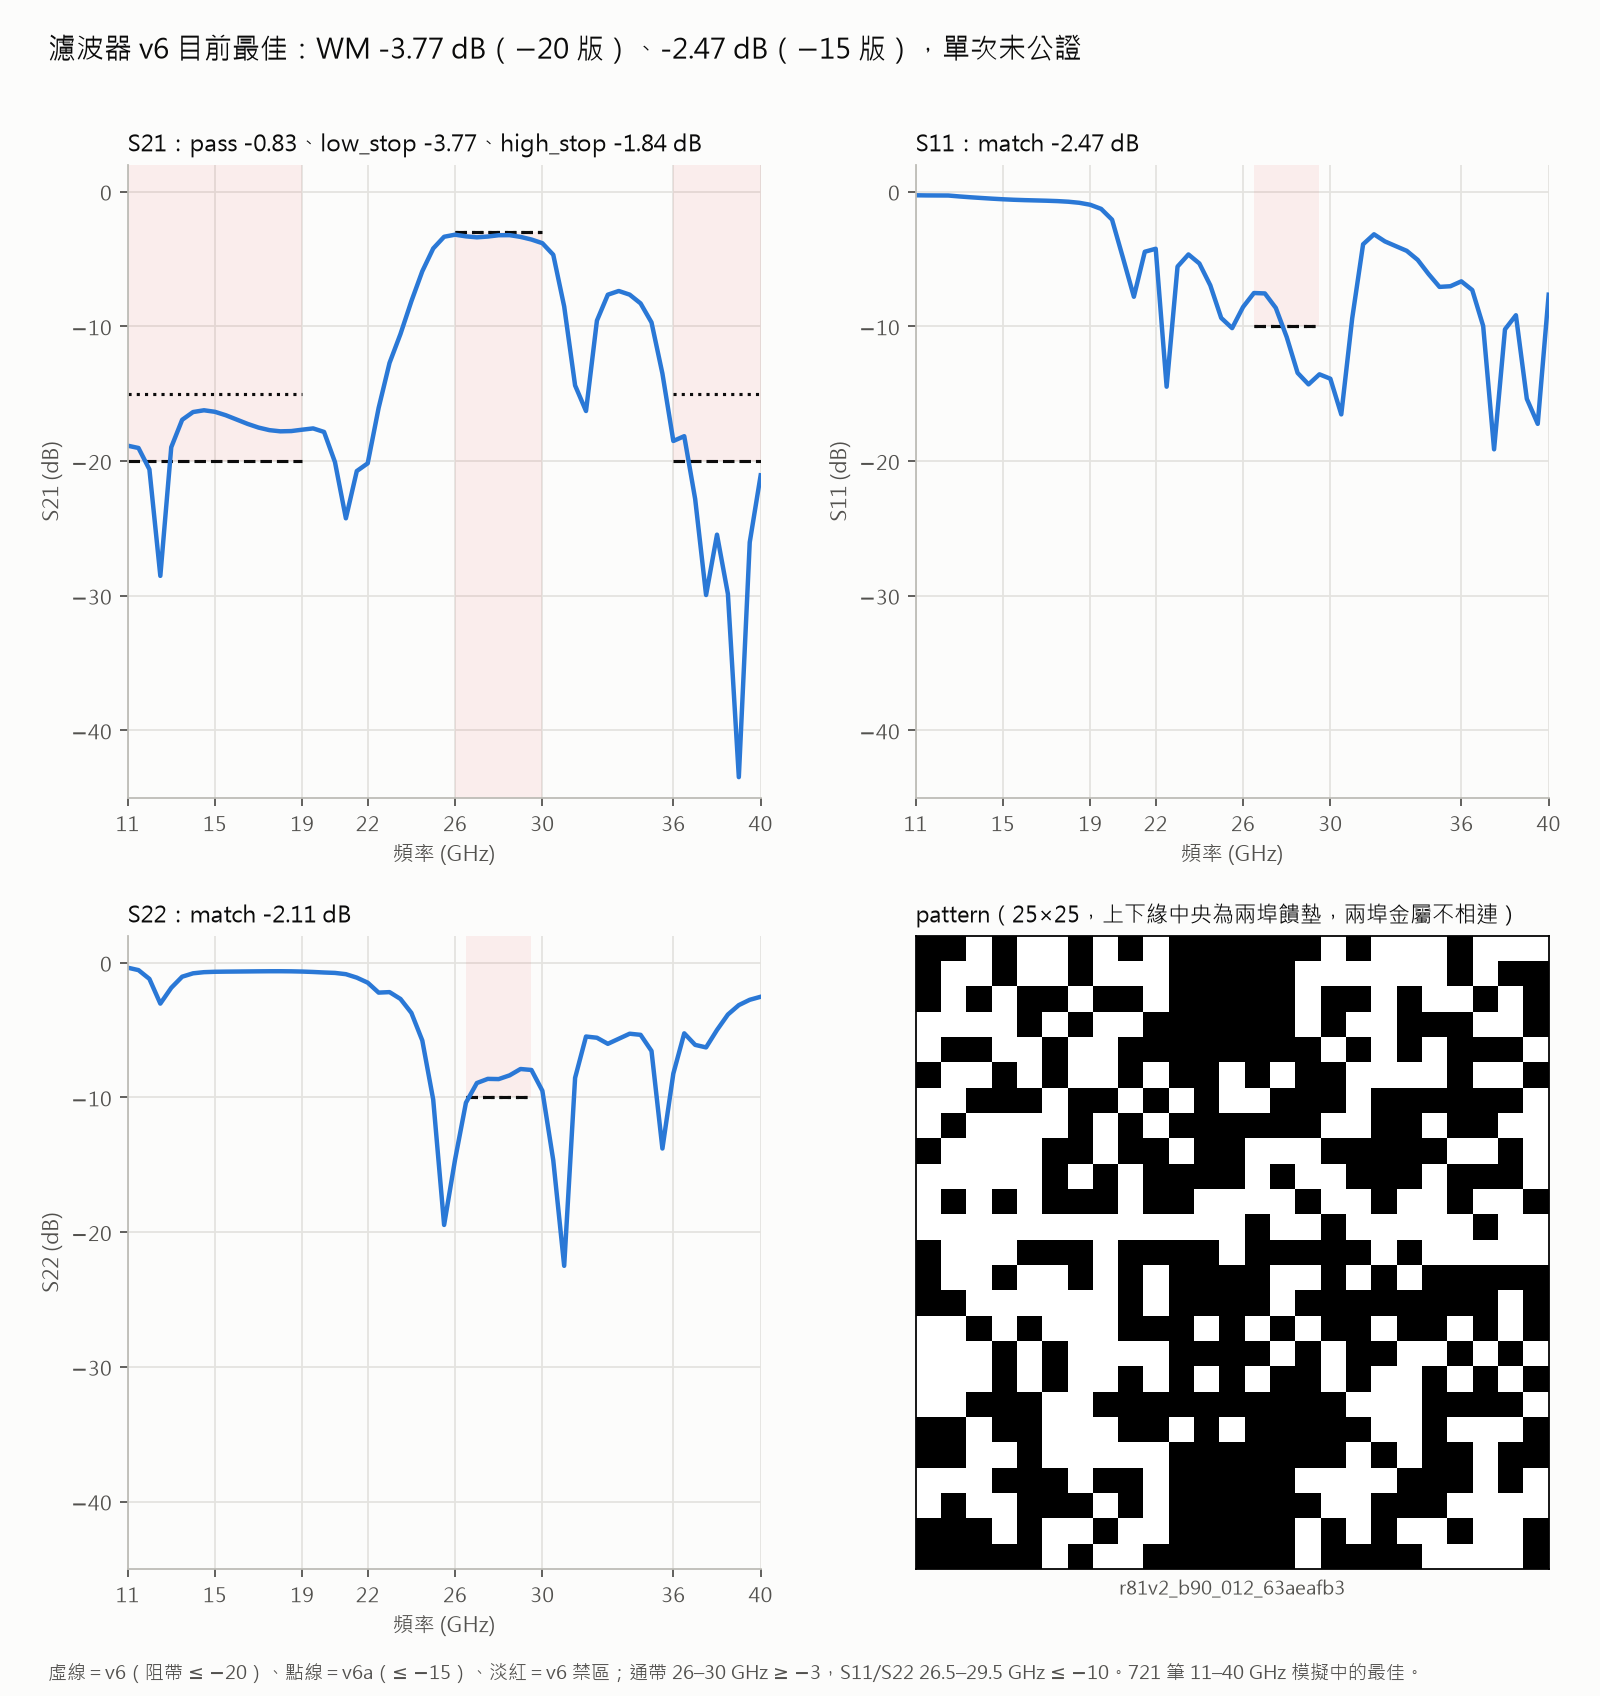
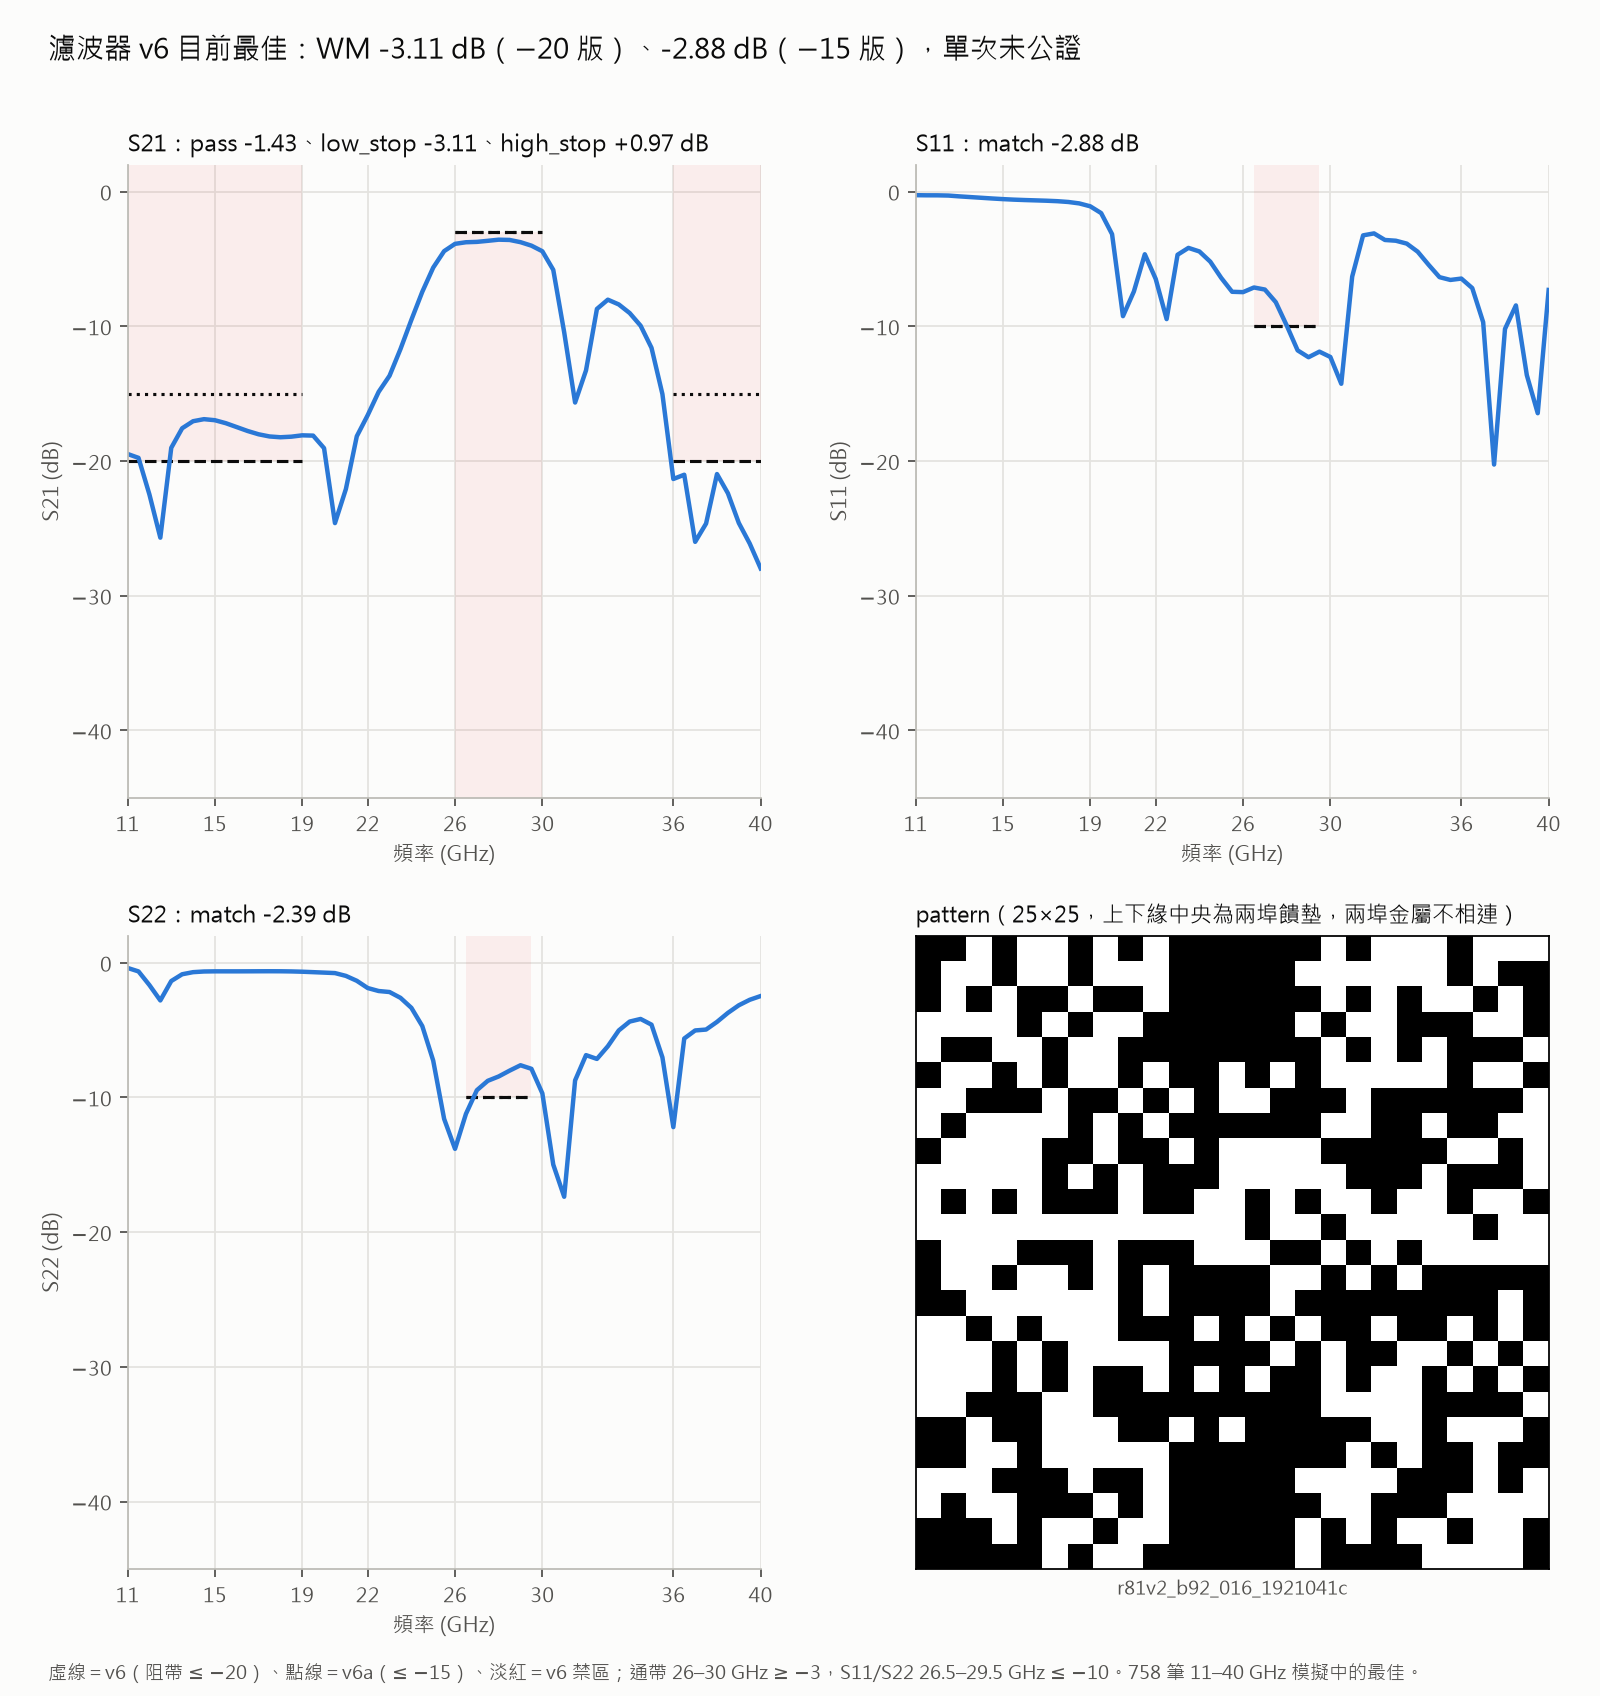
fig/log(r81): v6 −3.11（b92_016 dexploit，單次）；圖更新

diff --git a/docs/log/round-81-wide-filter.md b/docs/log/round-81-wide-filter.md
@@ -646,3 +646,8 @@ Ricky 要求 S11、S22 一起達標（沿用 R81 原匹配條件 26.5–29.5 GHz
 - 23／24 筆完成：|ΔWM| 中位 0.00、最大 1.50（低段一筆）；前 13 名最大 **0.026 dB**；ρ **0.998**。
 - 每筆 time_s（同機比較）：216 Discrete 459 → Interp 372（−19%）；218 346 → 301（−13%）。
 - 判準：①✓ ②✓ ③✗（未達 ≤ 2/3）→ 依發車前規則**主線維持 Discrete**。準度無損，若日後要換可多 13–19% 產量；先看逾時 1200 s 能省回多少再議。
+
+## 2026-10-20 13:01：v6 −3.11（單次）
+
+- `r81v2_b92_016_1921041c`（R83 dexploit）WM **−3.11**：通帶 −1.43、低阻 **−3.11**、高阻 **+0.97**（已過）、S11 −2.88、S22 −2.39。次佳 `b92_000`（dclimb）−3.40。b92 前 15 筆有 11 筆 > −4.3；climb 全交變化量模型的第一批。
+- 圖更新：`r81v6_climb.png`、`r81v6_best_card.png`、`r81v6a_best_card.png`（−15 版最佳仍 b90_019 −0.88）。
